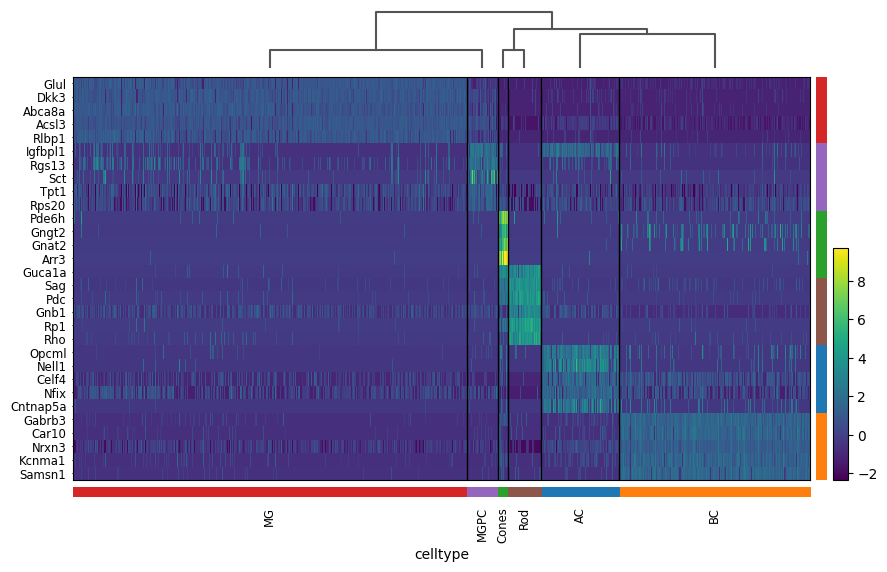
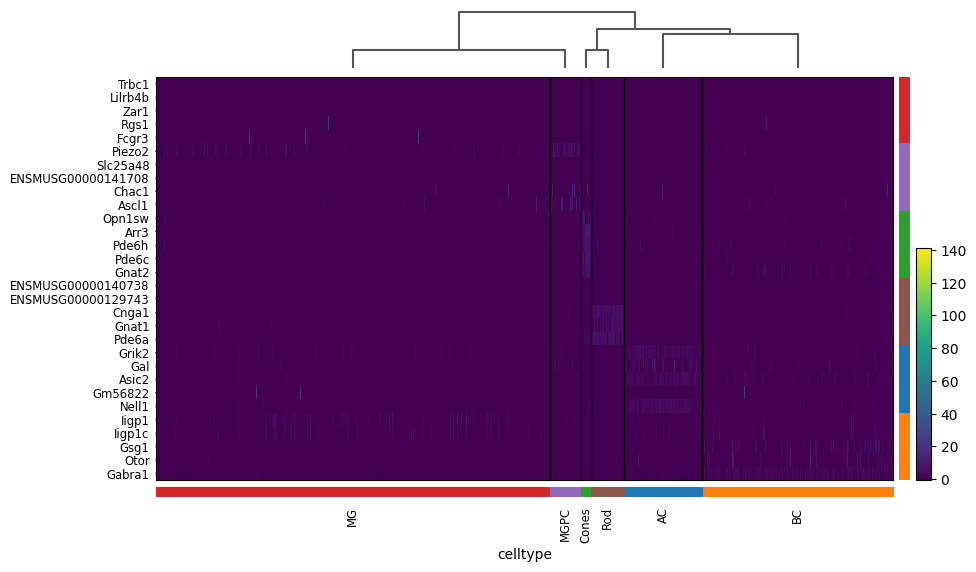
update expression.py

diff --git a/expression.py b/expression.py
@@ -8,7 +8,6 @@ import importlib_metadata
 # Fix importlib.metadata for older Python environments
 sys.modules['importlib.metadata'] = importlib_metadata
 
-# Argument parsing
 parser = argparse.ArgumentParser(description="Remove specific clusters and re-cluster")
 parser.add_argument('myObject', help='Path to input AnnData (.h5ad) file')
 args = parser.parse_args()
@@ -17,59 +16,56 @@ myObject = args.myObject
 base_name = os.path.splitext(os.path.basename(myObject))[0]
 newObject = "expression_" + base_name + ".h5ad"
 
+
 adata = sc.read(myObject)
 
-# 1. Check your annotation column
-annotation_col = 'celltype'  # change if different
-if annotation_col not in adata.obs:
-    raise ValueError(f"Column '{annotation_col}' not found in adata.obs")
 
-# 2. Run differential expression analysis
-sc.tl.rank_genes_groups(adata, groupby=annotation_col, method='wilcoxon')
+import numpy as np 
+adata_new = adata.copy()
+adata_unlogged = adata.copy()
+adata_unlogged.X = np.expm1(adata_unlogged.X)  # reverse log1p: exp(x) - 1
+adata_new.raw = adata_unlogged
 
-# 3. Visualize top marker genes per cluster (optional)
-sc.pl.rank_genes_groups(adata, n_genes=20, sharey=False)
+sc.tl.rank_genes_groups(adata_new, groupby="celltype", method='wilcoxon')
+df_all = sc.get.rank_genes_groups_df(adata_new, group=None)
+print(df_all[['group', 'names', 'logfoldchanges', 'pvals_adj']].head())
+print("Available columns in DE results:", df_all.columns.tolist())
 
-# 4. Extract DE results into dict of DataFrames
-result = adata.uns['rank_genes_groups']
-groups = result['names'].dtype.names  # list of clusters/groups
 
-marker_genes = {}
+groups = df_all['group'].unique().tolist()
+# Loop over each group and print all ranked genes sorted by logFC
 for group in groups:
-    marker_genes[group] = pd.DataFrame({
-        'gene': result['names'][group],
-        'logfoldchange': result['logfoldchanges'][group],
-        'pvals_adj': result['pvals_adj'][group],
-        'scores': result['scores'][group]
-    })
+    print(f"\nAll DE genes in group '{group}' sorted by logFC (highest to lowest):")
+    group_df = df_all[df_all['group'] == group].sort_values('logfoldchanges', ascending=False)
+    print(group_df[['names', 'logfoldchanges', 'pvals_adj']])
 
-# 5. Collect top N genes per cluster
-top_n = 3
+df_all.to_csv(f"ranked_genes_{base_name}_ALL.csv", index=False)
+
+# Get top N genes per group (by absolute logfc or rank)
+top_n = 5
 top_genes_combined = []
-for group in groups:
-    top_genes_combined.extend(marker_genes[group]['gene'].values[:top_n].tolist())
-top_genes_combined = list(dict.fromkeys(top_genes_combined))  # unique list, preserve order
 
-# 6. Plot built-in heatmap for top N genes in all clusters
+for group in groups:
+    top_genes = (
+        df_all[df_all['group'] == group]
+        .sort_values('logfoldchanges', key=abs, ascending=False)  # Optional: sort by abs(logFC)
+        .head(top_n)['names']
+        .tolist()
+    )
+    top_genes_combined.extend(top_genes)
+
+top_genes_combined = list(dict.fromkeys(top_genes_combined))
+print("Top genes for heatmap:", top_genes_combined)
+
+# Plot heatmap
 sc.pl.rank_genes_groups_heatmap(
-    adata, 
-    groups=list(groups),  # all clusters
+    adata_new,
+    groups=groups,
     n_genes=top_n,
     swap_axes=True,
     show=True,
     save=f"_heatmap_{base_name}_Top{top_n}Genes_all_clusters.png"
 )
 
-# Optional: Custom heatmap of combined unique genes across clusters
-# sc.pl.heatmap(
-#     adata,
-#     var_names=top_genes_combined,
-#     groupby=annotation_col,
-#     swap_axes=True,
-#     show=True,
-#     save=f"_custom_heatmap_{base_name}_Top{top_n}Genes_all_clusters.png"
-# )
-
-adata.obs_names_make_unique()
-adata.write(newObject, compression="gzip")
-
+adata_new.obs_names_make_unique()
+adata_new.write(newObject, compression="gzip")
